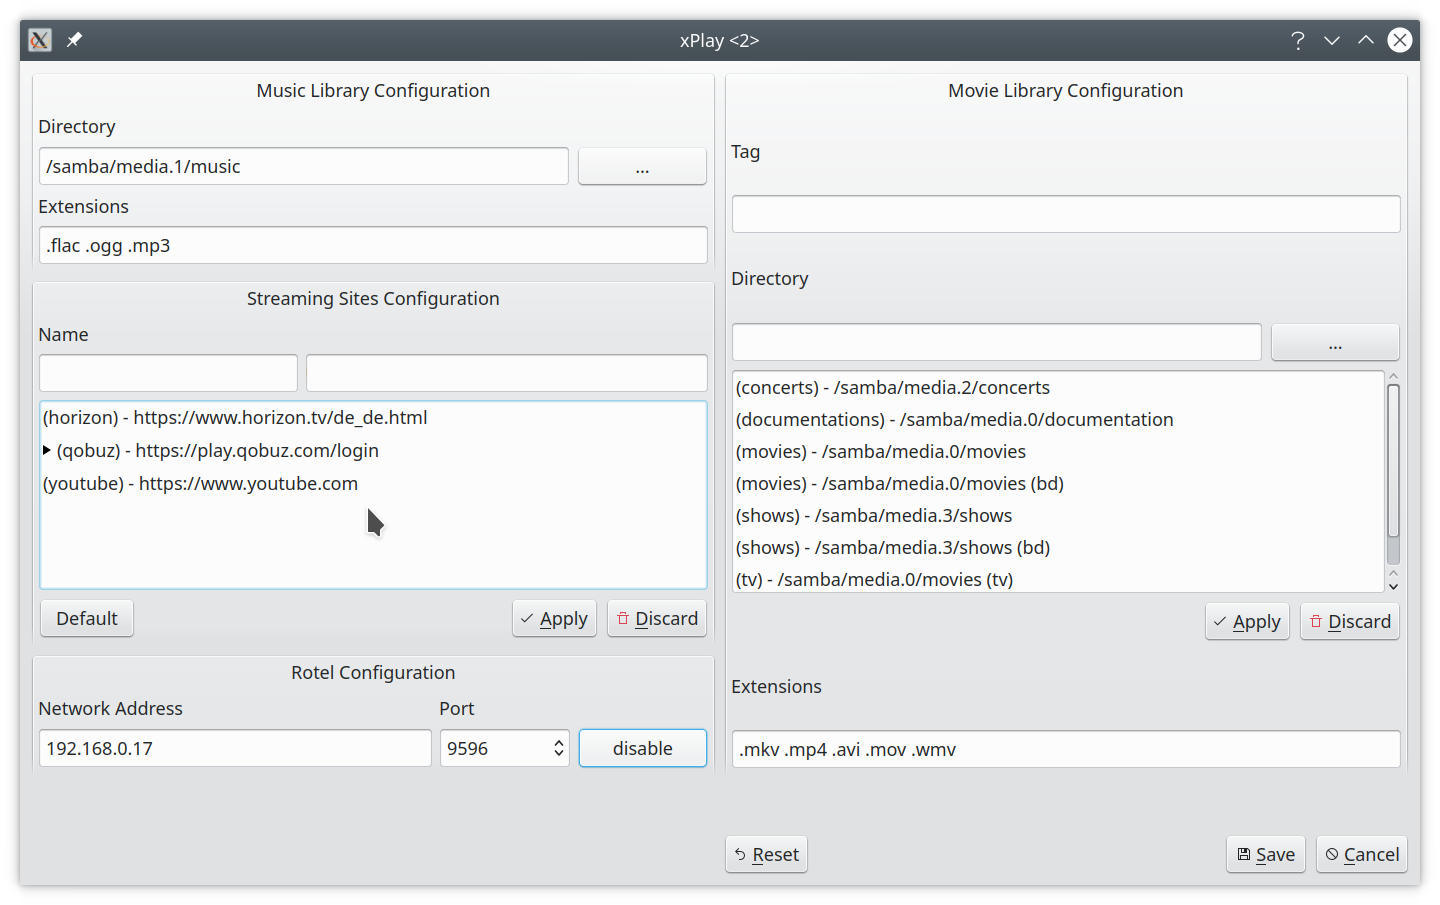
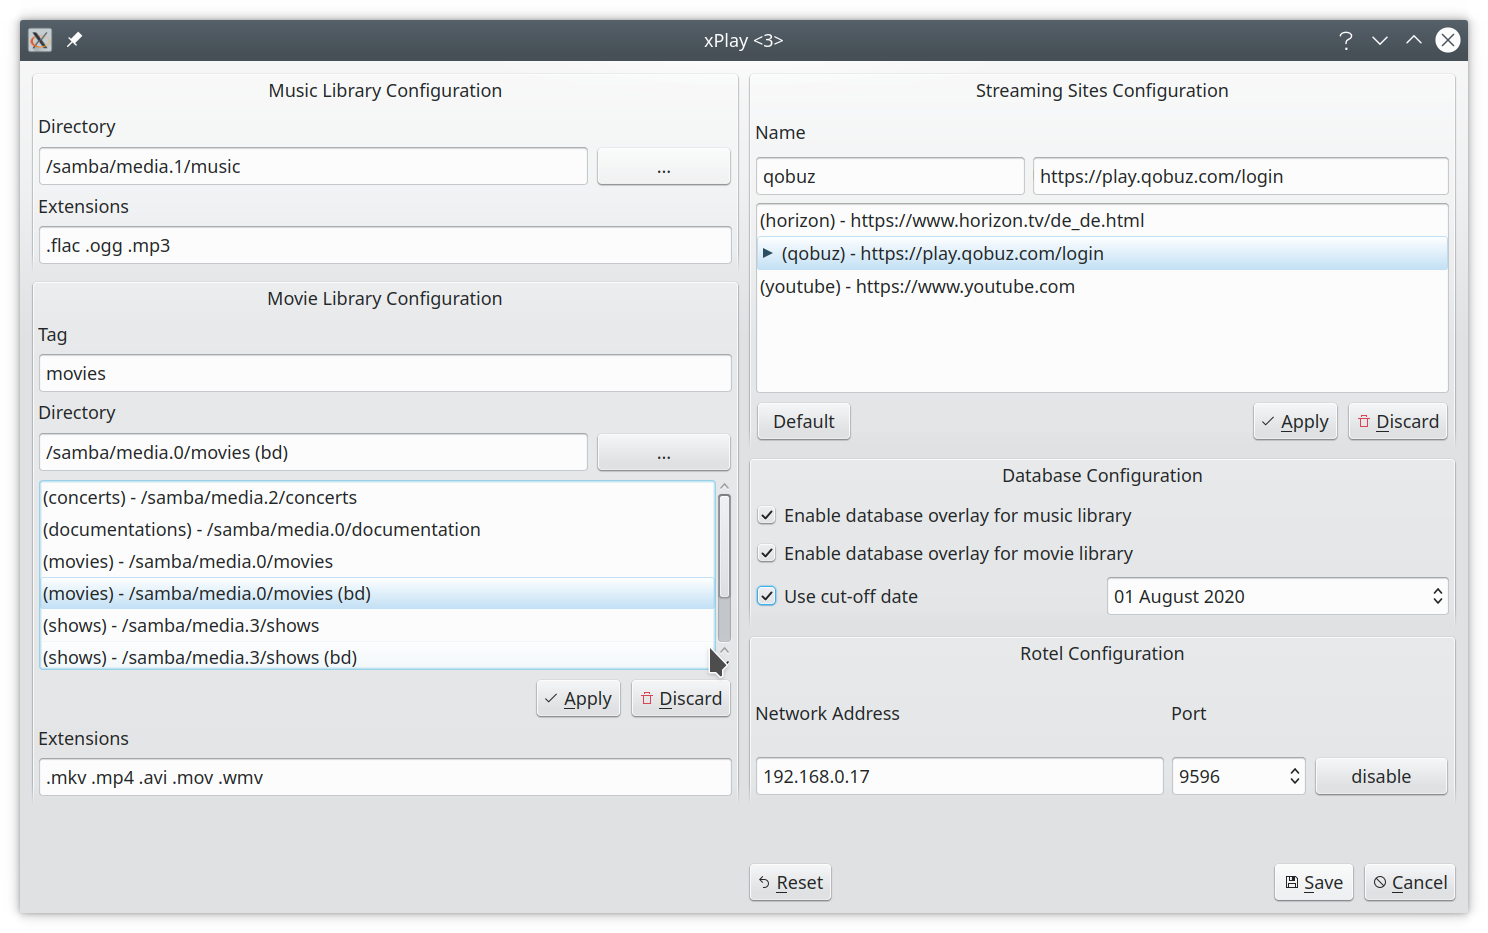
Update CHANGELOG.md and README.md. Update screenshots and version number.

diff --git a/xPlay.cpp b/xPlay.cpp
@@ -147,7 +147,7 @@ int main(int argc, char* argv[])
 {
     QApplication playApp(argc, argv);
     QApplication::setApplicationName("xPlay");
-    QApplication::setApplicationVersion("0.4.4");
+    QApplication::setApplicationVersion("0.5.0");
     if (handleCommandLine(playApp)) {
         // Exit if the command line was handled.
         return 0;

diff --git a/README.md b/README.md
@@ -79,13 +79,17 @@ xPlay has a music view, a movie view and a streaming view.
 
 ![Screenshot Music View](screenshots/xplay_screenshot_music_view_00.png)
 ![Screenshot Music View (rotel)](screenshots/xplay_screenshot_music_view_01.png)
+![Screenshot Music View (database overlay)](screenshots/xplay_screenshot_music_view_02.png)
 
 The main screen of the music view has four vertical list for the artists, album, tracks and the queue. The 
 album list is updated if you click (or select) on an artist and the track list is updated if you click (or select) 
 on an album. If you double-click on a track in the track list, then the track and the following tracks of the list 
 are added to the queue. If you right-click on a track in the track list, then only this track will be added to the 
 queue. The horizontal artist selector list can be used to filter the artist list by the first character. The 
-filtering is removed if you click on *none*.
+filtering is removed if you click on *none*. The database overlay (if activated) marks every artist, album and track
+with a star (*) if it has been played within the configured time period. For each track a tooltip is added that shows
+how many times this track has been played and the last time it was played. The overlay makes it easier to identify 
+music that you have not listen too in some time or at all.
 
 The player itself displays the artist, album and track currently played. It includes a slider to seek within the
 currently played file. In addition there is player control section with a *play/pause*, *stop*, *prev*, *next*
@@ -99,12 +103,16 @@ The Rotel widget allows to control a Rotel A12 or A14 amp via a network connecti
 
 ![Screenshot Movie View](screenshots/xplay_screenshot_movie_view_00.png)
 ![Screenshot Movie View (fullwindow)](screenshots/xplay_screenshot_movie_view_01.png)
+![Screenshot Movie View (database overlay)](screenshots/xplay_screenshot_movie_view_02.png)
 
 The main screen of the movie view has three vertical lists for tags, directories and movies. A tag is a 
 representation of one or more base directories. The directory list contains all sub directories (only one level)
 of these. An additional entry "." is added for all movies that are not located within a sub directory. The 
 movie list displays all movie files, but this list does not act as a queue. Double-click on an entry in the 
-movie list will start the playback. 
+movie list will start the playback. The database overlay (if activated) will mark every tag, directory and movie
+with a star (*) if it has been played within the configured time period. For each movie a tooltip is added that
+displays the number of times this movie has been played and the last time it was played. The overlay helps keeping 
+track which episode of a show you have already seen.
 
 The player section itself allows for seeking within the movie and selecting the audio channel or subtitle. The
 control section has a *play/pause* and *stop* buttons. The *rew* and *fwd* buttons jump 60 seconds backward or 
@@ -142,21 +150,25 @@ information about the used Qt and Qwt libraries.
 The configuration dialog is using QSettings to load and store the xPlay configuration. The directory and 
 extensions for the music and the movie library can be configured as well as the sites for the streaming view.
 The Rotel widget can be enabled or disabled and its network configuration can be configured.
+The database overlay for the music and movie view can be configured using individual check boxes. A cut-off
+date can be configured for each database query. If specified then entries with a time stamp before the cut-off
+date are ignored. This features enables the user to e.g. see which movies he has seen in the last month.
 
 ![Screenshot Configuration Dialog](screenshots/xplay_screenshot_configuration_dialog.png)
 
 
 ## Artwork
 
-The media control artwork has been borrowed from Wikipedia.
-(https://en.wikipedia.org/wiki/Media_control_symbols)
+The media control artwork was borrowed from Wikipedia (https://en.wikipedia.org/wiki/Media_control_symbols)
+and the KDE 5.x breeze icons.
 
 ## Requirements
 
-* Qt 5.x
-* Phonon (use Qt based music view with USE_PHONON=OFF)
-* Qwt 6.x for Qt5 (optional, deactivate with USE_QWT=OFF)
-* taglib
+* Qt 5.x (https://www.qt.io/)
+* Phonon (https://github.com/KDE/phonon)
+* Qwt 6.x for Qt5 (http://qwt.sf.net) (optional, deactivate with USE_QWT=OFF)
+* SOCI - The C++ Database Access Library (http://soci.sourceforge.net/) 
+* TagLib Audio Meta-Data Library (https://taglib.org/)
 * C++17
 
 With Qwt the UI has an improved volume knob and track slider.

diff --git a/CHANGELOG.md b/CHANGELOG.md
@@ -1,5 +1,10 @@
 # Changelog
 
+## 0.5.0 - 2020-12-26
+
+- Add database for played music and movie files.
+- Add configurable database layer for music and movie view.
+
 ## 0.4.4 - 2020-12-21
 
 - Display currently played movie in the window title if in full window mode.
